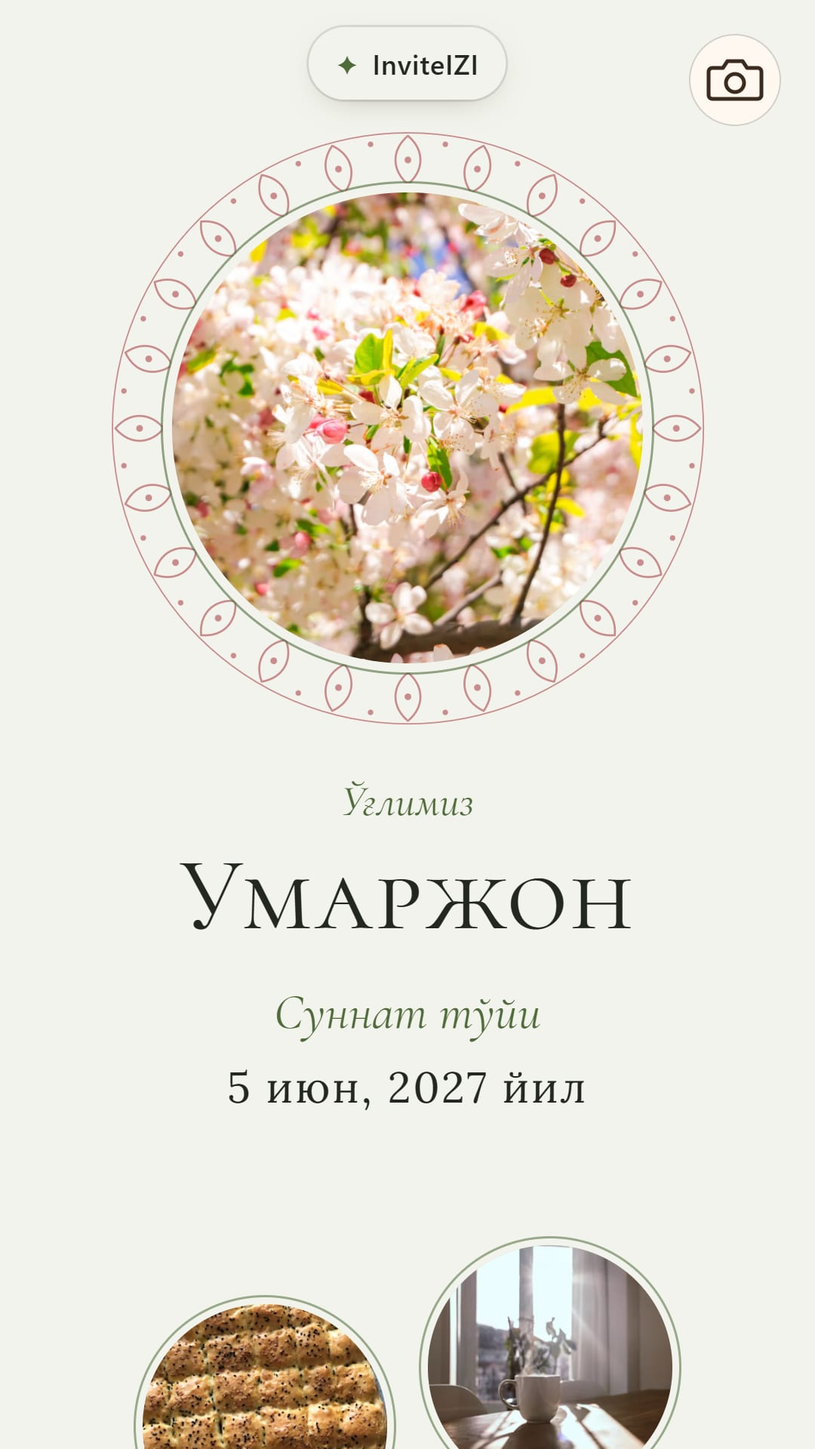
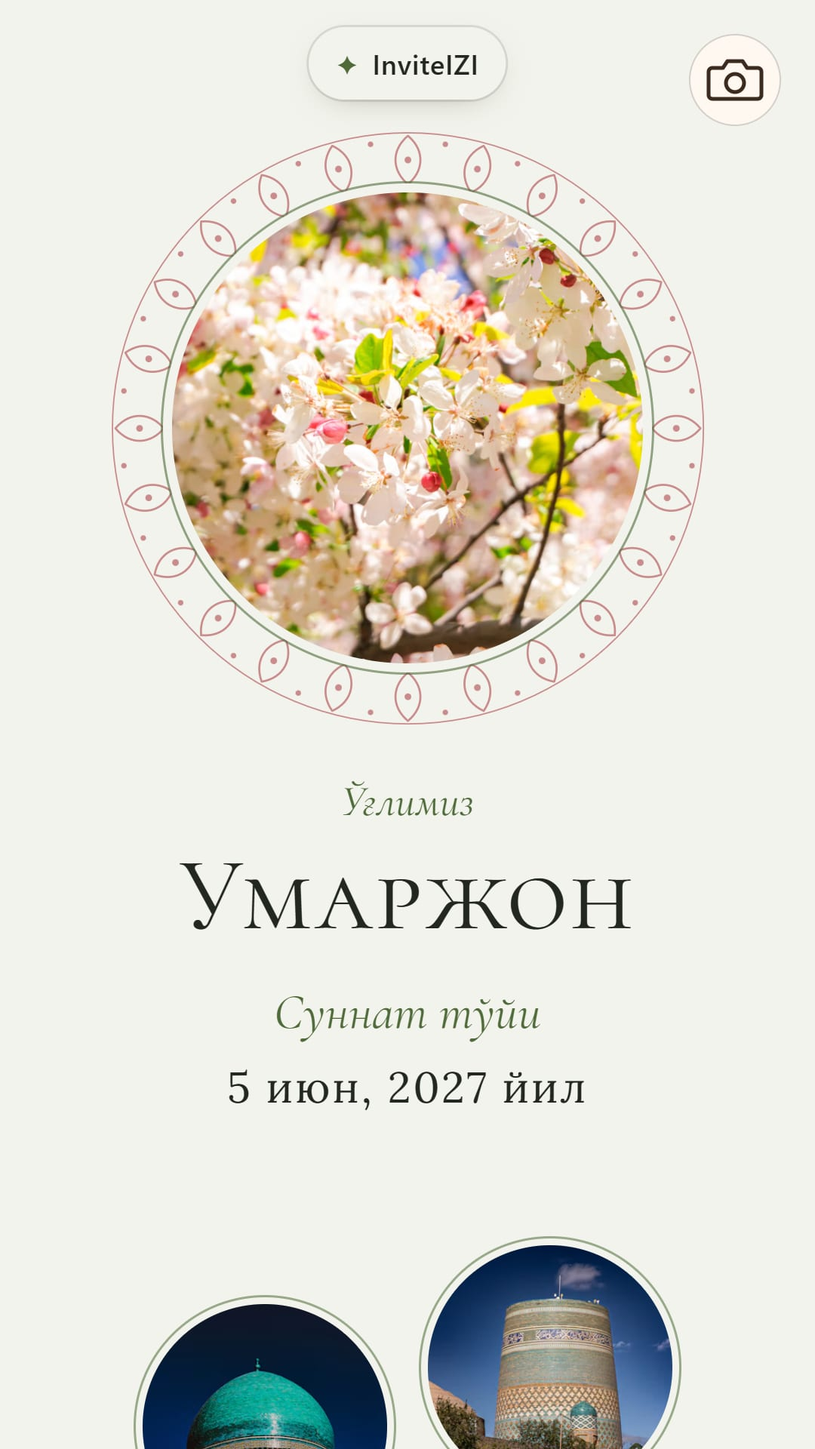
Хвосты: тесты на находки ревьюера, «Танлаш» в избранном меняет текущий заказ, бот без склейки, audit.md, обложка lola-medalyon

Changed region(s): [[0.5194, 0.8438, 0.825, 1.0], [0.1528, 0.875, 0.4889, 1.0]]

diff --git a/bot/flow.review-fixes.test.ts b/bot/flow.review-fixes.test.ts
@@ -1,0 +1,119 @@
+/**
+ * Находки финального ревьюера (03.11.2026) — каждая закрыта тестом:
+ * 1) сумма в кнопке чека после смены формата; 2) базм при смене повода наҳорги; 3) 404 по-узбекски;
+ * 4) снятый с каталога дизайн не купить; 5) тадбир прошёл — оплата не принимается;
+ * + «Танлаш» в избранном во время правки меняет текущий заказ, а не создаёт второй.
+ */
+import { createElement } from "react";
+import { renderToStaticMarkup } from "react-dom/server";
+import { describe, expect, it, vi } from "vitest";
+import { uz } from "@/texts/bot-uz";
+import { PRICES, getDesign, isOnSale } from "@/templates/registry";
+import { designsFor } from "./flow/util";
+import { inlineButtons } from "./testing/fake-tg";
+import { nikohOrder } from "./testing/paths";
+import { Sim } from "./testing/sim";
+import NotFound from "@/app/not-found";
+
+// next/font работает только в сборке Next — в тесте шрифт не нужен
+vi.mock("next/font/local", () => ({ default: () => ({ variable: "font" }) }));
+
+const ID = 21;
+type Button = { text: string; data?: string };
+const receiptButton = (sim: Sim) =>
+  sim.tg.to(ID).flatMap((m) => inlineButtons(m) as Button[]).filter((b) => b.data?.startsWith("rcpt:")).at(-1)!;
+
+/** Правка заказа: другой формат, первый дизайн без фото клиента → «Сотиб олиш» → «Ҳаммаси тўғри» */
+async function switchFormat(sim: Sim, n: number, format: "simple" | "scroll") {
+  await sim.callback(ID, `edit:${n}`, sim.last(ID).id);
+  await sim.click(ID, uz.review.editDesign);
+  await sim.click(ID, new RegExp(uz.format.names[format]));
+  const idx = designsFor("nikoh", format).findIndex((d) => !d.clientPhotos);
+  for (let k = 0; k < idx; k++) await sim.click(ID, "▶");
+  await sim.click(ID, uz.catalog.buy);
+  await sim.click(ID, uz.review.confirm);
+}
+
+describe("находки ревьюера", () => {
+  it("1. сменили формат после «Тўлаш» — старая кнопка чека показывает реквизиты с новой суммой", async () => {
+    const sim = new Sim();
+    const o = await nikohOrder(sim, ID);
+    await sim.callback(ID, `pay:${o.number}`, sim.last(ID).id);
+    const old = receiptButton(sim);
+    expect(old.data).toBe(`rcpt:${o.number}:${PRICES.animated}`);
+    await switchFormat(sim, o.number, "simple");
+    expect((await sim.repo.getOrder(o.id))!.amount).toBe(PRICES.simple);
+    await sim.callback(ID, old.data!, 1);
+    // не шаг «пришлите чек» по старой сумме, а новые реквизиты
+    expect(receiptButton(sim).data).toBe(`rcpt:${o.number}:${PRICES.simple}`);
+    expect(sim.lastText(ID)).not.toBe(uz.pay.receiptAsk);
+    // новая кнопка уже ведёт к приёму чека
+    await sim.callback(ID, receiptButton(sim).data!, 1);
+    expect(sim.lastText(ID)).toBe(uz.pay.receiptAsk);
+  });
+
+  it("2. наҳорги ош: повод никоҳ → суннат — «Никоҳ базми» становится «Суннат базми», дата и место те же", async () => {
+    const sim = new Sim();
+    const design = designsFor("nahorgi", "animated")[0];
+    await sim.start(ID);
+    await sim.click(ID, uz.langUz);
+    const main = { ...design.sample.events[0] };
+    const bazm = { ...main, kind: "nikohBazm" as const, time: "18:00" };
+    await sim.repo.saveStep(ID, "cause", { q: 700, ret: "review", occasion: "nahorgi", format: design.format, templateId: design.id, data: { ...design.sample, cause: "nikoh", events: [main, bazm] } });
+    await sim.callback(ID, "a:700:sunnat", 1);
+    const events = ((await sim.user(ID))!.state.data as { events: { kind: string; date: string; time: string }[] }).events;
+    expect(events.map((e) => e.kind)).toEqual([main.kind, "sunnatBazm"]);
+    expect(events[1]).toMatchObject({ date: bazm.date, time: "18:00" });
+  });
+
+  it("3. неверная ссылка — страница по-узбекски, без английского «could not be found»", () => {
+    const html = renderToStaticMarkup(createElement(NotFound));
+    expect(html).toContain("Таклифнома топилмади");
+    expect(html).not.toMatch(/not be found|404/);
+  });
+
+  it("4. старый черновик со снятым дизайном: заказ не создаётся, бот просит выбрать заново", async () => {
+    const hidden = getDesign("islimi-varaq")!;
+    expect(isOnSale(hidden.id)).toBe(false);
+    const sim = new Sim();
+    await sim.start(ID);
+    await sim.click(ID, uz.langUz);
+    await sim.repo.saveStep(ID, "review", { q: 700, occasion: hidden.occasion, format: hidden.format, templateId: hidden.id, data: { ...hidden.sample, rsvp: false } });
+    const mark = sim.mark();
+    await sim.callback(ID, "a:700:ok", 1);
+    await sim.click(ID, uz.review.confirm).catch(() => undefined);
+    expect(await sim.repo.listOrdersByUser(ID)).toHaveLength(0);
+    expect(sim.textsSince(ID, mark).join("\n")).toContain(uz.order.catalogChanged);
+  });
+
+  it("5. тадбир давно прошёл — «Тўлаш» и старая кнопка чека не принимают оплату", async () => {
+    const sim = new Sim();
+    const o = await nikohOrder(sim, ID);
+    await sim.callback(ID, `pay:${o.number}`, sim.last(ID).id);
+    const old = receiptButton(sim);
+    sim.advance(90 * 24 * 60);
+    await sim.callback(ID, `pay:${o.number}`, 1);
+    expect(sim.lastText(ID)).toBe(uz.pay.eventPassed);
+    expect((inlineButtons(sim.last(ID)) as Button[]).some((b) => b.data?.startsWith("pay:"))).toBe(false);
+    await sim.callback(ID, old.data!, 1);
+    expect(sim.lastText(ID)).toBe(uz.pay.eventPassed);
+    expect((await sim.repo.getOrder(o.id))!.status).not.toBe("receipt_sent");
+  });
+});
+
+describe("избранное во время правки", () => {
+  it("«Танлаш» меняет дизайн текущего заказа — второго заказа и новой ссылки нет", async () => {
+    const sim = new Sim();
+    const o = await nikohOrder(sim, ID);
+    const fav = designsFor("nikoh", "simple").find((d) => !d.clientPhotos)!;
+    await sim.callback(ID, `fav:add:${fav.id}`, 1);
+    await sim.callback(ID, `edit:${o.number}`, sim.last(ID).id);
+    await sim.callback(ID, `fav:choose:${fav.id}`, 1);
+    await sim.click(ID, uz.catalog.buy);
+    expect((await sim.user(ID))!.step).toBe("review");
+    await sim.click(ID, uz.review.confirm);
+    const orders = await sim.repo.listOrdersByUser(ID);
+    expect(orders).toHaveLength(1);
+    expect(orders[0]).toMatchObject({ id: o.id, slug: o.slug, templateId: fav.id, format: "simple", amount: PRICES.simple });
+  });
+});

diff --git a/bot/flow/orders.ts b/bot/flow/orders.ts
@@ -6,7 +6,7 @@ import type { Ctx, Deps, Result, Step } from "./types";
 import type { Lang, OrderRecord } from "@/lib/domain";
 import type { InlineButton } from "../tg";
 import { PRICES } from "@/templates/registry";
-import { t } from "@/texts/uz-cyrl";
+import { tPlain as t } from "@/texts/uz-cyrl";
 import { uz } from "@/texts/bot-uz";
 import { slugify } from "@/lib/slug";
 import {
@@ -27,7 +27,7 @@ import {
   send,
   txFor,
 } from "./util";
-import { ACCEPTED, getDesign } from "@/templates/registry";
+import { getDesign, isOnSale } from "@/templates/registry";
 import { rememberUpdate } from "../update";
 import { recordBotError, toEntry } from "../errors";
 import { creditPartnerSafely } from "./partners";
@@ -85,7 +85,7 @@ export async function confirmDraft(c: Ctx): Promise<Result> {
     // Тот же дизайн и формат — прежняя согласованная сумма (даже если каталог потом переклассифицировал дизайн).
     const selected=getDesign(s.templateId);
     const unchanged=s.templateId===old.templateId&&s.format===old.format;
-    if(!unchanged&&(!selected||!ACCEPTED.has(selected.id)||selected.format!==s.format||selected.occasion!==old.occasion)){
+    if(!unchanged&&(!selected||!isOnSale(selected.id)||selected.format!==s.format||selected.occasion!==old.occasion)){
       s.format=old.format;s.templateId=old.templateId;
       return {hint:c.tx.order.formatLocked};
     }
@@ -110,7 +110,7 @@ export async function confirmDraft(c: Ctx): Promise<Result> {
 
   const selected=getDesign(s.templateId);
   // Старый черновик мог запомнить дизайн, который потом сняли с каталога: купить его уже нельзя
-  if(!selected||!ACCEPTED.has(selected.id)||selected.format!==s.format||selected.occasion!==data.occasion){
+  if(!selected||!isOnSale(selected.id)||selected.format!==s.format||selected.occasion!==data.occasion){
     s.ret="review";
     await send(c,c.tx.order.catalogChanged);
     return {to:"fmt"};

diff --git a/bot/flow/steps-final.ts b/bot/flow/steps-final.ts
@@ -2,7 +2,7 @@
 import type { Ctx, Result, Step, StepId } from "./types";
 import { getDesign } from "@/templates/registry";
 import type { InlineButton } from "../tg";
-import { t } from "@/texts/uz-cyrl";
+import { tPlain as t } from "@/texts/uz-cyrl";
 import { designsFor, backRow, data, designLine, editOrSend, eventLabel, finalData, fmtDate, ib, inline, MAX_CUSTOM_TEXT, MAX_MUSIC_BYTES, priceNote, send } from "./util";
 import { confirmDraft } from "./orders";
 import { photoStepFor } from "./steps-photo";
@@ -191,9 +191,11 @@ async function summary(c: Ctx) {
   const r = c.tx.review;
   const d = finalData(c.s);
   const old = c.s.orderId ? await c.deps.repo.getOrder(c.s.orderId) : null;
-  // Выбрали другой формат в «✏ Дизайн», но вернулись без покупки: формат остаётся тот, что у выбранного дизайна
+  // Выбрали другой формат в «✏ Дизайн», но вернулись без покупки: дизайн прежний — и формат прежний
+  // (у старого заказа — формат из заказа: каталог мог потом переклассифицировать дизайн)
   const chosen = c.s.templateId ? getDesign(c.s.templateId) : undefined;
-  if (chosen && c.s.format !== chosen.format) c.s.format = chosen.format;
+  if (old && c.s.templateId === old.templateId) c.s.format = old.format;
+  else if (chosen && c.s.format !== chosen.format) c.s.format = chosen.format;
   // согласованная сумма — пока формат тот же; сменили формат до оплаты — цена нового формата
   const quoted = old?.userId === c.user.id && old.format === c.s.format ? old.amount : undefined;
   const lines = [r.title, "", designLine(c.tx, c.s.templateId ?? "", c.s.format ?? "animated", quoted)];

diff --git a/bot/flow/index.ts b/bot/flow/index.ts
@@ -353,7 +353,15 @@ async function onCallback(c: Ctx, d: string) {
     if (c.chatId !== c.user.id || !(await c.deps.repo.listFavorites(c.user.id)).includes(id)) return;
     const design = activeDesigns().find(d => d.id === id);
     if (!design) return;
-    return enter(c, "catalog", { occasion: design.occasion, format: design.format, catIdx: designsFor(design.occasion, design.format).findIndex(d => d.id === id) });
+    const catIdx = designsFor(design.occasion, design.format).findIndex(d => d.id === id);
+    // Идёт правка заказа или заполнение анкеты того же тадбира: меняем дизайн в ней, а не начинаем новый заказ
+    if (c.s.data && c.s.occasion === design.occasion && !c.s.paid) {
+      c.s = { ...c.s, format: design.format, catIdx, ret: c.s.ret ?? (c.s.orderId ? "review" : undefined), back: [] };
+      c.step = "catalog";
+      return ask(c);
+    }
+    if (c.s.orderId) return void (await send(c, c.tx.order.formatLocked));
+    return enter(c, "catalog", { occasion: design.occasion, format: design.format, catIdx });
   }
   const [kind, a, b] = d.split(":");
   const n = Number(a);

diff --git a/bot/original-music.test.ts b/bot/original-music.test.ts
@@ -1,7 +1,9 @@
+import {useHistoricalCatalog} from './testing/historical';
 import {describe,it,expect} from 'vitest';
 import tracks from '@/music/originals/manifest.json';
 import {Sim} from './testing/sim';import {startUz} from './testing/paths';import {uz} from '@/texts/bot-uz';import {getDesign} from '@/templates/registry';import {invitationData} from '@/lib/orders';
 describe('all twelve original choices through the existing music flow',()=>{
+ useHistoricalCatalog();
  for(const [index,t] of tracks.entries())it(`${t.id}: preview, choose, persist exact music ID and public URL`,async()=>{
   const music=tracks.map((row,i)=>({id:row.id,titleUz:row.titleUz,titleRu:row.titleRu,fileUrl:'https://fixture.invalid/audio/originals/'+row.id+'.mp3',sort:i,occasion:row.occasion as 'sunnat'|'yubiley',telegramFileId:null}));
   const sim=new Sim({music}),user=980000+index,design=getDesign(t.occasion==='sunnat'?'sunnat-muqova':'umr-sahifalari')!;

diff --git a/texts/uz-cyrl.test.ts b/texts/uz-cyrl.test.ts
@@ -1,5 +1,5 @@
 import { describe, expect, it } from "vitest";
-import { t } from "./uz-cyrl";
+import { t as glued, tPlain as t } from "./uz-cyrl";
 import { longSamples, samples } from "@/lib/samples";
 import type { InvitationData, Occasion } from "@/lib/types";
 
@@ -24,6 +24,11 @@ describe("тексты приглашений", () => {
       }
     });
   }
+
+  it("на странице «ва» и «билан» не отрываются: тексты приглашения склеены неразрывным пробелом", () => {
+    expect(glued.inviteOptions(samples.nikoh)[0].body).toContain("Азиз ва Мадинанинг");
+    expect(JSON.stringify(glued)).not.toMatch(/(^|[\s"])ва /);
+  });
 
   it("имена подставлены в нужном падеже", () => {
     const nikoh = t.inviteOptions(samples.nikoh);

diff --git a/templates/registry.ts b/templates/registry.ts
@@ -249,6 +249,11 @@ export const ACCEPTED = new Set([
   // список — HIDDEN_03_11 ниже. «anor-bogi» скрыт ещё 24.10.
 ]);
 
+/** Дизайн можно купить сейчас (новый заказ или смена дизайна до оплаты) */
+export function isOnSale(id: string) {
+  return ACCEPTED.has(id);
+}
+
 /** Скрыты из каталога сайта и бота 03.11.2026 (номера 31, 41, 62–69, 71–77, 79, 80, 82–86, 88–112). Не удалять: заказы на них открываются */
 export const HIDDEN_03_11: readonly string[] = [
   "oq-ot", "tonggi-qozon", "zarhal-eshik", "atlas-tolqin", "bodom-guli", "samarqand-kitob",

diff --git a/bot/flow/util.ts b/bot/flow/util.ts
@@ -4,7 +4,7 @@ import type { Ctx, Draft, DraftData } from "./types";
 import type { InvitationData, InvitationEvent, Lang, Occasion, OrderRecord, OrderStatus } from "@/lib/domain";
 import type { EventKind } from "@/lib/types";
 import { getDesign, PRICES, FORMATS, type Format, activeDesigns } from "@/templates/registry";
-import { t } from "@/texts/uz-cyrl";
+import { tPlain as t } from "@/texts/uz-cyrl";
 import { uz, type BotTexts } from "@/texts/bot-uz";
 import { ru } from "@/texts/bot-ru";
 import { demoToken } from "@/lib/demo-tracking";

diff --git a/texts/uz-cyrl.ts b/texts/uz-cyrl.ts
@@ -683,6 +683,8 @@ const raw = {
 
 /** Без висячих «ва / билан / учун» в конце и начале строк — склейка один раз для всех дизайнов */
 export const t: typeof raw = glueDeep(raw);
+/** Те же тексты без склейки — для бота (в Telegram перенос строк свой, неразрывные пробелы не нужны) */
+export const tPlain = raw;
 
 export type Texts = typeof t;
 

diff --git a/bot/flow.payment.test.ts b/bot/flow.payment.test.ts
@@ -27,7 +27,7 @@ describe("оплата Kaspi и чек", () => {
     expect(inlineButtons(m)).toEqual(
       expect.arrayContaining([
         { text: uz.pay.copy, copy: "+77000000000" },
-        { text: uz.pay.sendReceipt, data: `rcpt:${o.number}` },
+        { text: uz.pay.sendReceipt, data: `rcpt:${o.number}:${o.amount}` },
       ]),
     );
     expect((await sim.repo.getOrder(o.id))?.status).toBe("awaiting_payment");

diff --git a/bot/testing/historical.ts b/bot/testing/historical.ts
@@ -10,6 +10,7 @@ export function useHistoricalCatalog() {
     vi.spyOn(registry, "activeDesigns").mockImplementation(() =>
       registry.everAccepted().sort((a, b) => registry.catalogPosition(a) - registry.catalogPosition(b)),
     );
+    vi.spyOn(registry, "isOnSale").mockImplementation((id) => registry.everAccepted().some((d) => d.id === id));
   });
   afterEach(() => vi.restoreAllMocks());
 }

diff --git a/docs/reviews/final/audit.md b/docs/reviews/final/audit.md
@@ -1,0 +1,45 @@
+# Аудит 33 дизайнов каталога (03–04.11.2026)
+
+Проверено скриптом `scripts/check-final-audit.mjs` (Chrome, 360×740, 430×860, длинные имена 360, НАМУНА 375×812) + снимки глазами.
+
+**Для всех дизайнов:** ошибок консоли 0, горизонтальной прокрутки 0, музыка ▶/⏸ работает, дни недели Ду…Як 14 px, числа 18 px, отмеченный день в центре кружка (смещение ≤1 px), размытых фото нет.
+
+**Исправлено для всех сразу:** «ва / ҳам / ё» больше не остаются в конце строки, «билан / учун / каби» — в начале (неразрывный пробел во всех текстах приглашения и в данных заказа). Дни недели 11 → 14 px.
+
+**Кнопка музыки:** в конце страницы ничего не закрывает (запас под подвалом). Во время прокрутки текст на миг проходит под кнопкой — так задумано, не правим.
+
+| № | Дизайн | Тадбир / формат | Найдено | Исправлено |
+|---|---|---|---|---|
+| 113 | muhr | nikoh / animated | висящие слова ×1; календарь тесный на 360 (кружок задевает соседние дни) | склейка слов; Календарь на всю ширину, медальон под ним |
+| 114 | ipak | nikoh / animated | висящие слова ×1; длинная фамилия рвалась посередине (ревьюер) | склейка слов; Время в событиях меньше на 360 px — фамилия не рвётся |
+| 115 | bog | sunnat / scroll | висящие слова ×1; фото чуть меньше 2× на 430 px (на телефоне не заметно) | склейка слов |
+| 116 | tong-dasturxon | nahorgi / scroll | висящие слова ×1; календарь сбоку от медальона (так задумано); фото чуть меньше 2× на 430 px (на телефоне не заметно) | склейка слов; Фото чая → Бухара (Ляби-хауз) |
+| 1 | oltin-monogramma | nikoh / animated | висящие слова ×1 | склейка слов |
+| 61 | ganch-peshtoq | nikoh / animated | висящие слова ×1 | склейка слов |
+| 23 | sapfir | nikoh / simple | — | — |
+| 51 | pion-guldasta | yubiley / animated | висящие слова ×4 | склейка слов |
+| 70 | shohona-baxmal | nikoh / scroll | висящие слова ×1 | склейка слов |
+| 78 | doppicha | sunnat / simple | — | — |
+| 81 | umr-daraxti | yubiley / scroll | — | — |
+| 87 | zarhal-lavha | yubiley / animated | — | — |
+| 117 | gul-doira | nikoh / animated | — | — |
+| 118 | girih-barg | nikoh / animated | фото чуть меньше 2× на 430 px (на телефоне не заметно) | — |
+| 119 | muhrli-maktub | nikoh / animated | — | — |
+| 120 | tonggi-piyola | nahorgi / animated | — | — |
+| 121 | lola-bodom | sunnat / animated | — | — |
+| 122 | bordo-guldasta | yubiley / simple | висящие слова ×1; фото чуть меньше 2× на 430 px (на телефоне не заметно) | склейка слов |
+| 123 | choy-maktub | nahorgi / simple | висящие слова ×1 | склейка слов |
+| 124 | non-albom | nahorgi / simple | — | Фото → нон крупно, плов, Самарканд |
+| 125 | qozon-tongi | nahorgi / animated | фото чуть меньше 2× на 430 px (на телефоне не заметно) | Главное фото → Самарканд (обложка отличается от 116) |
+| 126 | tong-varaq | nahorgi / scroll | — | — |
+| 127 | oq-maktub | nikoh / simple | висящие слова ×1 | склейка слов |
+| 128 | ipak-albom | nikoh / simple | — | — |
+| 129 | suzani-medalyon | nikoh / simple | — | — |
+| 130 | nur-varaq | nikoh / scroll | — | — |
+| 132 | xotira-albom | nikoh / scroll | — | — |
+| 133 | visol-hikoya | nikoh / animated | — | — |
+| 134 | ganch-darvoza | sunnat / animated | — | — |
+| 135 | doppi-kitob | sunnat / scroll | — | — |
+| 136 | lola-medalyon | sunnat / simple | — | Фото: европейский хлеб и кружка → цветение, купол Бухары, Кальта-минор; обложка новая |
+| 137 | umr-kitobi | yubiley / scroll | — | — |
+| 138 | hurmat-maktub | yubiley / simple | висящие слова ×2 | склейка слов |
